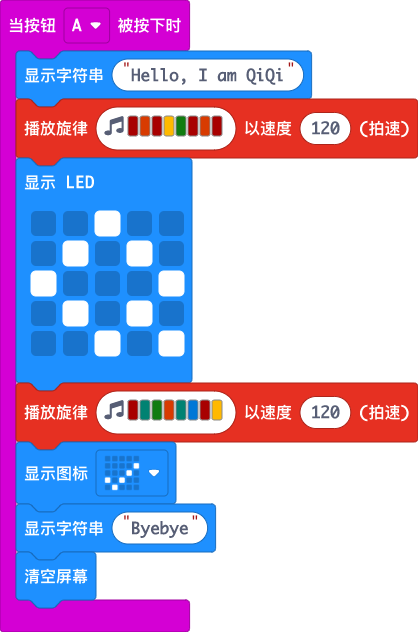
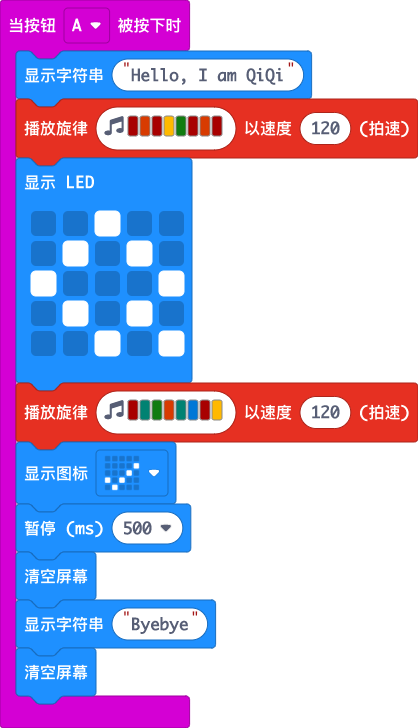
fix: make it perfect.

diff --git a/main.ts b/main.ts
@@ -10,6 +10,8 @@ input.onButtonPressed(Button.A, function () {
         `)
     music.playMelody("C5 F G B F E C5 A ", 120)
     basic.showIcon(IconNames.Yes)
+    basic.pause(500)
+    basic.clearScreen()
     basic.showString("Byebye")
     basic.clearScreen()
 })
